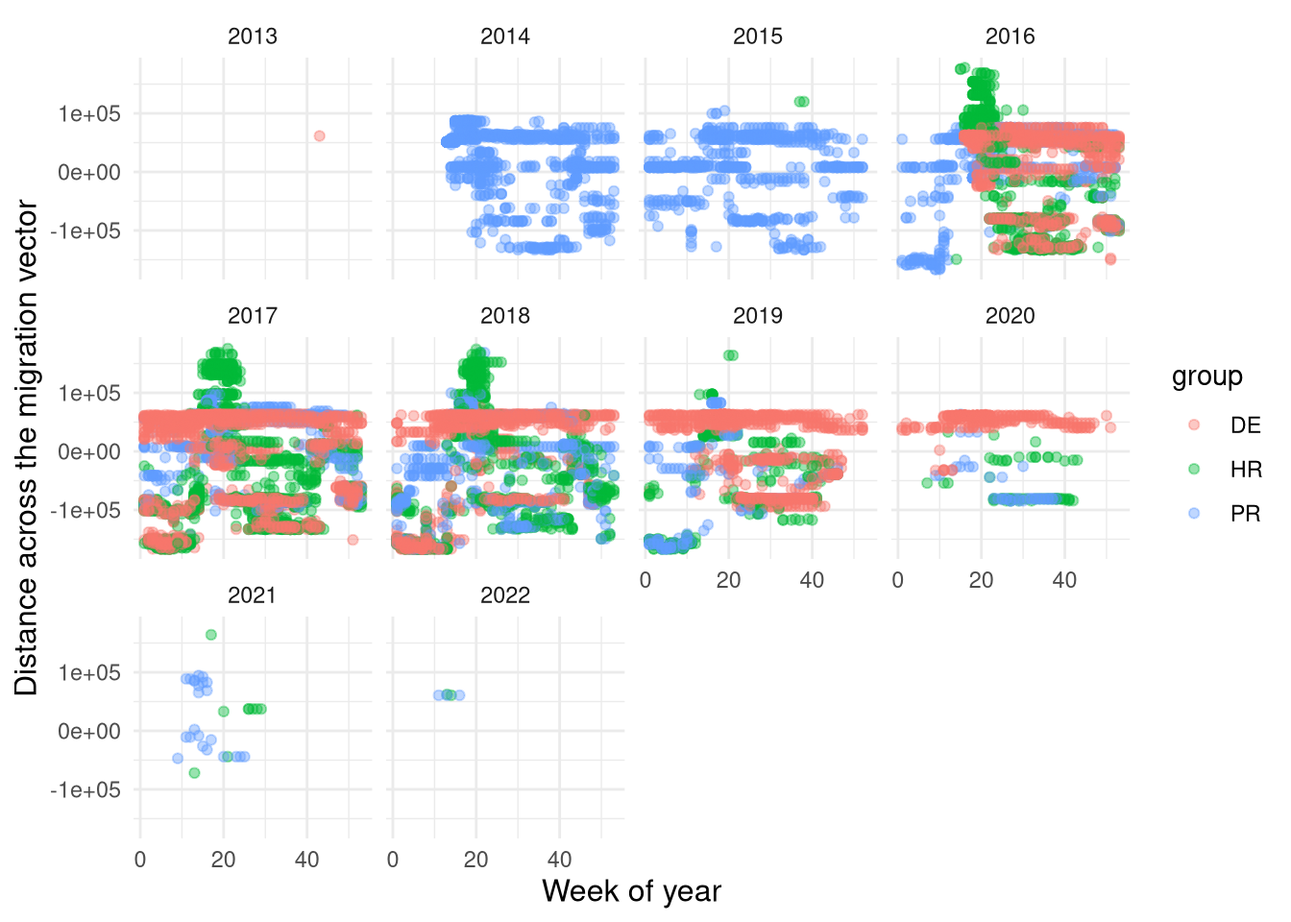
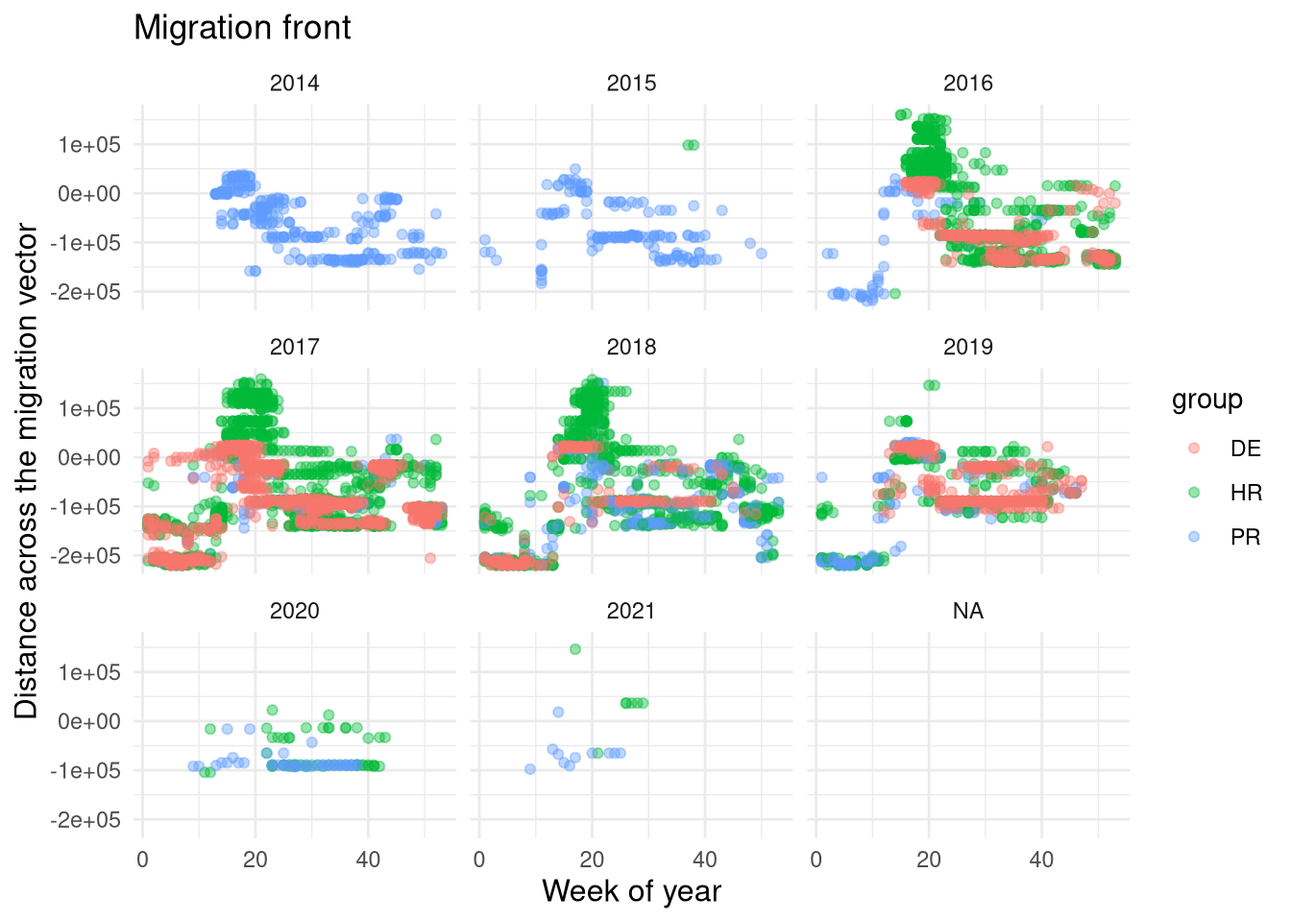
Built site for gh-pages

diff --git a/initial_gam.html b/initial_gam.html
@@ -240,7 +240,11 @@ window.Quarto = {
     <h2 id="toc-title">Table of contents</h2>
    
   <ul>
-  <li><a href="#striped-bass-morone-saxatilis" id="toc-striped-bass-morone-saxatilis" class="nav-link active" data-scroll-target="#striped-bass-morone-saxatilis"><span class="header-section-number">4.1</span> Striped bass <em>Morone saxatilis</em></a></li>
+  <li><a href="#striped-bass-morone-saxatilis" id="toc-striped-bass-morone-saxatilis" class="nav-link active" data-scroll-target="#striped-bass-morone-saxatilis"><span class="header-section-number">4.1</span> Striped bass <em>Morone saxatilis</em></a>
+  <ul class="collapse">
+  <li><a href="#initial-gam" id="toc-initial-gam" class="nav-link" data-scroll-target="#initial-gam"><span class="header-section-number">4.1.1</span> Initial GAM</a></li>
+  <li><a href="#model-evaluation" id="toc-model-evaluation" class="nav-link" data-scroll-target="#model-evaluation"><span class="header-section-number">4.1.2</span> Model evaluation</a></li>
+  </ul></li>
   <li><a href="#sand-tiger-shark-carcharias-taurus" id="toc-sand-tiger-shark-carcharias-taurus" class="nav-link" data-scroll-target="#sand-tiger-shark-carcharias-taurus"><span class="header-section-number">4.2</span> Sand tiger shark <em>Carcharias taurus</em></a></li>
   </ul>
 </nav>
@@ -279,8 +283,11 @@ window.Quarto = {
 <div class="code-copy-outer-scaffold"><div class="sourceCode cell-code" id="cb1"><pre class="sourceCode r code-with-copy"><code class="sourceCode r"><span id="cb1-1"><a href="#cb1-1" aria-hidden="true" tabindex="-1"></a><span class="fu">library</span>(arrow) <span class="co"># Data import</span></span>
 <span id="cb1-2"><a href="#cb1-2" aria-hidden="true" tabindex="-1"></a><span class="fu">library</span>(dplyr) <span class="co"># Data manipulation</span></span>
 <span id="cb1-3"><a href="#cb1-3" aria-hidden="true" tabindex="-1"></a><span class="fu">library</span>(sf) <span class="co"># Spatial</span></span>
-<span id="cb1-4"><a href="#cb1-4" aria-hidden="true" tabindex="-1"></a><span class="fu">library</span>(mgcv) <span class="co"># GAM fitting</span></span>
-<span id="cb1-5"><a href="#cb1-5" aria-hidden="true" tabindex="-1"></a><span class="fu">library</span>(ggplot2) <span class="co"># Visualization</span></span></code></pre></div><button title="Copy to Clipboard" class="code-copy-button"><i class="bi"></i></button></div>
+<span id="cb1-4"><a href="#cb1-4" aria-hidden="true" tabindex="-1"></a><span class="fu">library</span>(ggplot2) <span class="co"># Data visualization</span></span>
+<span id="cb1-5"><a href="#cb1-5" aria-hidden="true" tabindex="-1"></a><span class="fu">library</span>(mgcv) <span class="co"># GAM fitting</span></span>
+<span id="cb1-6"><a href="#cb1-6" aria-hidden="true" tabindex="-1"></a><span class="fu">library</span>(gratia) <span class="co"># GAM visualization</span></span>
+<span id="cb1-7"><a href="#cb1-7" aria-hidden="true" tabindex="-1"></a></span>
+<span id="cb1-8"><a href="#cb1-8" aria-hidden="true" tabindex="-1"></a><span class="fu">theme_set</span>(<span class="fu">theme_minimal</span>())</span></code></pre></div><button title="Copy to Clipboard" class="code-copy-button"><i class="bi"></i></button></div>
 </div>
 <section id="striped-bass-morone-saxatilis" class="level2" data-number="4.1">
 <h2 data-number="4.1" class="anchored" data-anchor-id="striped-bass-morone-saxatilis"><span class="header-section-number">4.1</span> Striped bass <em>Morone saxatilis</em></h2>
@@ -290,8 +297,7 @@ window.Quarto = {
 <span id="cb2-2"><a href="#cb2-2" aria-hidden="true" tabindex="-1"></a>  <span class="fu">geom_point</span>(<span class="fu">aes</span>(<span class="at">x =</span> wk, <span class="at">y =</span> med_lat, <span class="at">color =</span> group), <span class="at">alpha =</span> <span class="fl">0.4</span>) <span class="sc">+</span></span>
 <span id="cb2-3"><a href="#cb2-3" aria-hidden="true" tabindex="-1"></a>  <span class="fu">facet_wrap</span>(<span class="sc">~</span>year) <span class="sc">+</span></span>
 <span id="cb2-4"><a href="#cb2-4" aria-hidden="true" tabindex="-1"></a>  <span class="fu">labs</span>(<span class="at">x =</span> <span class="st">"Week of year"</span>, <span class="at">y =</span> <span class="st">"Weekly median latitude"</span>) <span class="sc">+</span></span>
-<span id="cb2-5"><a href="#cb2-5" aria-hidden="true" tabindex="-1"></a>  <span class="fu">theme_minimal</span>() <span class="sc">+</span></span>
-<span id="cb2-6"><a href="#cb2-6" aria-hidden="true" tabindex="-1"></a>  <span class="fu">theme</span>(<span class="at">axis.title =</span> <span class="fu">element_text</span>(<span class="at">size =</span> <span class="dv">12</span>))</span></code></pre></div><button title="Copy to Clipboard" class="code-copy-button"><i class="bi"></i></button></div>
+<span id="cb2-5"><a href="#cb2-5" aria-hidden="true" tabindex="-1"></a>  <span class="fu">theme</span>(<span class="at">axis.title =</span> <span class="fu">element_text</span>(<span class="at">size =</span> <span class="dv">12</span>))</span></code></pre></div><button title="Copy to Clipboard" class="code-copy-button"><i class="bi"></i></button></div>
 <div class="cell-output-display">
 <div class="quarto-figure quarto-figure-center">
 <figure class="figure">
@@ -307,7 +313,7 @@ window.Quarto = {
 <pre><code># A tibble: 1 × 2
    lon0  lat0
   &lt;dbl&gt; &lt;dbl&gt;
-1 -74.2  40.0</code></pre>
+1 -73.9  40.6</code></pre>
 </div>
 </div>
 <p>Create the <a href="https://proj.org/en/stable/index.html">PROJ</a> string…</p>
@@ -321,7 +327,7 @@ window.Quarto = {
 <span id="cb4-7"><a href="#cb4-7" aria-hidden="true" tabindex="-1"></a></span>
 <span id="cb4-8"><a href="#cb4-8" aria-hidden="true" tabindex="-1"></a>proj_string</span></code></pre></div><button title="Copy to Clipboard" class="code-copy-button"><i class="bi"></i></button></div>
 <div class="cell-output cell-output-stdout">
-<pre><code>[1] "+proj=aeqd +lon_0=-74.159839739832 +lat_0=40.0307026396128"</code></pre>
+<pre><code>[1] "+proj=aeqd +lon_0=-73.9001815881036 +lat_0=40.6098490160218"</code></pre>
 </div>
 </div>
 <p>…and project the fish locations:</p>
@@ -358,25 +364,27 @@ window.Quarto = {
 <span id="cb7-13"><a href="#cb7-13" aria-hidden="true" tabindex="-1"></a>  <span class="co"># Find the angle between true north and migration north</span></span>
 <span id="cb7-14"><a href="#cb7-14" aria-hidden="true" tabindex="-1"></a>  (\(.) <span class="fu">atan2</span>(.[<span class="dv">1</span>], .[<span class="dv">2</span>]) <span class="sc">*</span> <span class="dv">180</span> <span class="sc">/</span> pi)()</span>
 <span id="cb7-15"><a href="#cb7-15" aria-hidden="true" tabindex="-1"></a></span>
-<span id="cb7-16"><a href="#cb7-16" aria-hidden="true" tabindex="-1"></a>migration_azimuth</span></code></pre></div><button title="Copy to Clipboard" class="code-copy-button"><i class="bi"></i></button></div>
-<div class="cell-output cell-output-stdout">
-<pre><code>[1] 46.83949</code></pre>
+<span id="cb7-16"><a href="#cb7-16" aria-hidden="true" tabindex="-1"></a><span class="co"># Measure clockwise from north</span></span>
+<span id="cb7-17"><a href="#cb7-17" aria-hidden="true" tabindex="-1"></a>migration_azimuth <span class="ot">&lt;-</span> <span class="fu">ifelse</span>(</span>
+<span id="cb7-18"><a href="#cb7-18" aria-hidden="true" tabindex="-1"></a>  migration_azimuth <span class="sc">&lt;</span> <span class="dv">0</span>,</span>
+<span id="cb7-19"><a href="#cb7-19" aria-hidden="true" tabindex="-1"></a>  <span class="dv">180</span> <span class="sc">+</span> migration_azimuth,</span>
+<span id="cb7-20"><a href="#cb7-20" aria-hidden="true" tabindex="-1"></a>  migration_azimuth</span>
+<span id="cb7-21"><a href="#cb7-21" aria-hidden="true" tabindex="-1"></a>)</span></code></pre></div><button title="Copy to Clipboard" class="code-copy-button"><i class="bi"></i></button></div>
 </div>
-</div>
-<p>So, the migration vector is rotated 47<span class="math inline">\(\degree\)</span> from north. To rotate the data, we’re going to lie to the program and say that the data are currently projected around the north pole, then add the migration azimuth to it.</p>
+<p>So, the migration vector is rotated 43<span class="math inline">\(\degree\)</span> from north. To rotate the data, we’re going to lie to the program and say that the data are currently projected around the north pole, then add the migration azimuth to it.</p>
 <div class="cell">
-<div class="code-copy-outer-scaffold"><div class="sourceCode cell-code" id="cb9"><pre class="sourceCode r code-with-copy"><code class="sourceCode r"><span id="cb9-1"><a href="#cb9-1" aria-hidden="true" tabindex="-1"></a><span class="fu">st_crs</span>(sb_sf) <span class="ot">&lt;-</span> <span class="st">"+proj=aeqd +lat_0=90 +lon_0=0"</span></span>
-<span id="cb9-2"><a href="#cb9-2" aria-hidden="true" tabindex="-1"></a>proj_rotated <span class="ot">&lt;-</span> <span class="fu">paste0</span>(<span class="st">"+proj=aeqd +lat_0=90 +lon_0="</span>, migration_azimuth)</span>
-<span id="cb9-3"><a href="#cb9-3" aria-hidden="true" tabindex="-1"></a></span>
-<span id="cb9-4"><a href="#cb9-4" aria-hidden="true" tabindex="-1"></a>sb_migration_north <span class="ot">&lt;-</span> sb_sf <span class="sc">|&gt;</span></span>
-<span id="cb9-5"><a href="#cb9-5" aria-hidden="true" tabindex="-1"></a>  <span class="fu">st_transform</span>(proj_rotated) <span class="sc">|&gt;</span></span>
-<span id="cb9-6"><a href="#cb9-6" aria-hidden="true" tabindex="-1"></a>  <span class="co"># extract coordinates for modeling purposes</span></span>
-<span id="cb9-7"><a href="#cb9-7" aria-hidden="true" tabindex="-1"></a>  <span class="fu">mutate</span>(<span class="at">x =</span> <span class="fu">st_coordinates</span>(geometry)[, <span class="dv">1</span>], <span class="at">y =</span> <span class="fu">st_coordinates</span>(geometry)[, <span class="dv">2</span>])</span>
-<span id="cb9-8"><a href="#cb9-8" aria-hidden="true" tabindex="-1"></a></span>
-<span id="cb9-9"><a href="#cb9-9" aria-hidden="true" tabindex="-1"></a></span>
-<span id="cb9-10"><a href="#cb9-10" aria-hidden="true" tabindex="-1"></a><span class="fu">ggplot</span>(sb_migration_north) <span class="sc">+</span></span>
-<span id="cb9-11"><a href="#cb9-11" aria-hidden="true" tabindex="-1"></a>  <span class="fu">geom_sf</span>() <span class="sc">+</span></span>
-<span id="cb9-12"><a href="#cb9-12" aria-hidden="true" tabindex="-1"></a>  <span class="fu">coord_sf</span>(<span class="at">datum =</span> proj_rotated)</span></code></pre></div><button title="Copy to Clipboard" class="code-copy-button"><i class="bi"></i></button></div>
+<div class="code-copy-outer-scaffold"><div class="sourceCode cell-code" id="cb8"><pre class="sourceCode r code-with-copy"><code class="sourceCode r"><span id="cb8-1"><a href="#cb8-1" aria-hidden="true" tabindex="-1"></a><span class="fu">st_crs</span>(sb_sf) <span class="ot">&lt;-</span> <span class="st">"+proj=aeqd +lat_0=90 +lon_0=0"</span></span>
+<span id="cb8-2"><a href="#cb8-2" aria-hidden="true" tabindex="-1"></a>proj_rotated <span class="ot">&lt;-</span> <span class="fu">paste0</span>(<span class="st">"+proj=aeqd +lat_0=90 +lon_0="</span>, migration_azimuth)</span>
+<span id="cb8-3"><a href="#cb8-3" aria-hidden="true" tabindex="-1"></a></span>
+<span id="cb8-4"><a href="#cb8-4" aria-hidden="true" tabindex="-1"></a>sb_migration_north <span class="ot">&lt;-</span> sb_sf <span class="sc">|&gt;</span></span>
+<span id="cb8-5"><a href="#cb8-5" aria-hidden="true" tabindex="-1"></a>  <span class="fu">st_transform</span>(proj_rotated) <span class="sc">|&gt;</span></span>
+<span id="cb8-6"><a href="#cb8-6" aria-hidden="true" tabindex="-1"></a>  <span class="co"># extract coordinates for modeling purposes</span></span>
+<span id="cb8-7"><a href="#cb8-7" aria-hidden="true" tabindex="-1"></a>  <span class="fu">mutate</span>(<span class="at">x =</span> <span class="fu">st_coordinates</span>(geometry)[, <span class="dv">1</span>], <span class="at">y =</span> <span class="fu">st_coordinates</span>(geometry)[, <span class="dv">2</span>])</span>
+<span id="cb8-8"><a href="#cb8-8" aria-hidden="true" tabindex="-1"></a></span>
+<span id="cb8-9"><a href="#cb8-9" aria-hidden="true" tabindex="-1"></a></span>
+<span id="cb8-10"><a href="#cb8-10" aria-hidden="true" tabindex="-1"></a><span class="fu">ggplot</span>(sb_migration_north) <span class="sc">+</span></span>
+<span id="cb8-11"><a href="#cb8-11" aria-hidden="true" tabindex="-1"></a>  <span class="fu">geom_sf</span>() <span class="sc">+</span></span>
+<span id="cb8-12"><a href="#cb8-12" aria-hidden="true" tabindex="-1"></a>  <span class="fu">coord_sf</span>(<span class="at">datum =</span> proj_rotated)</span></code></pre></div><button title="Copy to Clipboard" class="code-copy-button"><i class="bi"></i></button></div>
 <div class="cell-output-display">
 <div>
 <figure class="figure">
@@ -387,12 +395,15 @@ window.Quarto = {
 </div>
 <p>We can now visualize migration synchrony, the variance in the migration vector over time, and migration front, variance in excursion from the migration vector over time <span class="citation" data-cites="secor2025">(<a href="references.html#ref-secor2025" role="doc-biblioref">Secor et al. 2025</a>)</span>.</p>
 <div class="cell">
-<div class="code-copy-outer-scaffold"><div class="sourceCode cell-code" id="cb10"><pre class="sourceCode r code-with-copy"><code class="sourceCode r"><span id="cb10-1"><a href="#cb10-1" aria-hidden="true" tabindex="-1"></a><span class="fu">ggplot</span>(sb_migration_north) <span class="sc">+</span></span>
-<span id="cb10-2"><a href="#cb10-2" aria-hidden="true" tabindex="-1"></a>  <span class="fu">geom_point</span>(<span class="fu">aes</span>(<span class="at">x =</span> wk, <span class="at">y =</span> x, <span class="at">color =</span> group), <span class="at">alpha =</span> <span class="fl">0.4</span>) <span class="sc">+</span></span>
-<span id="cb10-3"><a href="#cb10-3" aria-hidden="true" tabindex="-1"></a>  <span class="fu">facet_wrap</span>(<span class="sc">~</span>year) <span class="sc">+</span></span>
-<span id="cb10-4"><a href="#cb10-4" aria-hidden="true" tabindex="-1"></a>  <span class="fu">labs</span>(<span class="at">x =</span> <span class="st">"Week of year"</span>, <span class="at">y =</span> <span class="st">"Distance along the migration vector"</span>) <span class="sc">+</span></span>
-<span id="cb10-5"><a href="#cb10-5" aria-hidden="true" tabindex="-1"></a>  <span class="fu">theme_minimal</span>() <span class="sc">+</span></span>
-<span id="cb10-6"><a href="#cb10-6" aria-hidden="true" tabindex="-1"></a>  <span class="fu">theme</span>(<span class="at">axis.title =</span> <span class="fu">element_text</span>(<span class="at">size =</span> <span class="dv">12</span>))</span></code></pre></div><button title="Copy to Clipboard" class="code-copy-button"><i class="bi"></i></button></div>
+<div class="code-copy-outer-scaffold"><div class="sourceCode cell-code" id="cb9"><pre class="sourceCode r code-with-copy"><code class="sourceCode r"><span id="cb9-1"><a href="#cb9-1" aria-hidden="true" tabindex="-1"></a><span class="fu">ggplot</span>(sb_migration_north) <span class="sc">+</span></span>
+<span id="cb9-2"><a href="#cb9-2" aria-hidden="true" tabindex="-1"></a>  <span class="fu">geom_point</span>(<span class="fu">aes</span>(<span class="at">x =</span> wk, <span class="at">y =</span> x, <span class="at">color =</span> group), <span class="at">alpha =</span> <span class="fl">0.4</span>) <span class="sc">+</span></span>
+<span id="cb9-3"><a href="#cb9-3" aria-hidden="true" tabindex="-1"></a>  <span class="fu">facet_wrap</span>(<span class="sc">~</span>year) <span class="sc">+</span></span>
+<span id="cb9-4"><a href="#cb9-4" aria-hidden="true" tabindex="-1"></a>  <span class="fu">labs</span>(</span>
+<span id="cb9-5"><a href="#cb9-5" aria-hidden="true" tabindex="-1"></a>    <span class="at">title =</span> <span class="st">"Migration synchrony"</span>,</span>
+<span id="cb9-6"><a href="#cb9-6" aria-hidden="true" tabindex="-1"></a>    <span class="at">x =</span> <span class="st">"Week of year"</span>,</span>
+<span id="cb9-7"><a href="#cb9-7" aria-hidden="true" tabindex="-1"></a>    <span class="at">y =</span> <span class="st">"Distance along the migration vector"</span></span>
+<span id="cb9-8"><a href="#cb9-8" aria-hidden="true" tabindex="-1"></a>  ) <span class="sc">+</span></span>
+<span id="cb9-9"><a href="#cb9-9" aria-hidden="true" tabindex="-1"></a>  <span class="fu">theme</span>(<span class="at">axis.title =</span> <span class="fu">element_text</span>(<span class="at">size =</span> <span class="dv">12</span>))</span></code></pre></div><button title="Copy to Clipboard" class="code-copy-button"><i class="bi"></i></button></div>
 <div class="cell-output-display">
 <div>
 <figure class="figure">
@@ -401,14 +412,16 @@ window.Quarto = {
 </div>
 </div>
 </div>
-<p>I (Mike) find the migration front for striped bass to be incredibly interesting – this is where you can see differences in the migration ecology of striped bass due to spawning behaviors!</p>
 <div class="cell">
-<div class="code-copy-outer-scaffold"><div class="sourceCode cell-code" id="cb11"><pre class="sourceCode r code-with-copy"><code class="sourceCode r"><span id="cb11-1"><a href="#cb11-1" aria-hidden="true" tabindex="-1"></a><span class="fu">ggplot</span>(sb_migration_north) <span class="sc">+</span></span>
-<span id="cb11-2"><a href="#cb11-2" aria-hidden="true" tabindex="-1"></a>  <span class="fu">geom_point</span>(<span class="fu">aes</span>(<span class="at">x =</span> wk, <span class="at">y =</span> y, <span class="at">color =</span> group), <span class="at">alpha =</span> <span class="fl">0.4</span>) <span class="sc">+</span></span>
-<span id="cb11-3"><a href="#cb11-3" aria-hidden="true" tabindex="-1"></a>  <span class="fu">facet_wrap</span>(<span class="sc">~</span>year) <span class="sc">+</span></span>
-<span id="cb11-4"><a href="#cb11-4" aria-hidden="true" tabindex="-1"></a>  <span class="fu">labs</span>(<span class="at">x =</span> <span class="st">"Week of year"</span>, <span class="at">y =</span> <span class="st">"Distance across the migration vector"</span>) <span class="sc">+</span></span>
-<span id="cb11-5"><a href="#cb11-5" aria-hidden="true" tabindex="-1"></a>  <span class="fu">theme_minimal</span>() <span class="sc">+</span></span>
-<span id="cb11-6"><a href="#cb11-6" aria-hidden="true" tabindex="-1"></a>  <span class="fu">theme</span>(<span class="at">axis.title =</span> <span class="fu">element_text</span>(<span class="at">size =</span> <span class="dv">12</span>))</span></code></pre></div><button title="Copy to Clipboard" class="code-copy-button"><i class="bi"></i></button></div>
+<div class="code-copy-outer-scaffold"><div class="sourceCode cell-code" id="cb10"><pre class="sourceCode r code-with-copy"><code class="sourceCode r"><span id="cb10-1"><a href="#cb10-1" aria-hidden="true" tabindex="-1"></a><span class="fu">ggplot</span>(sb_migration_north) <span class="sc">+</span></span>
+<span id="cb10-2"><a href="#cb10-2" aria-hidden="true" tabindex="-1"></a>  <span class="fu">geom_point</span>(<span class="fu">aes</span>(<span class="at">x =</span> wk, <span class="at">y =</span> y, <span class="at">color =</span> group), <span class="at">alpha =</span> <span class="fl">0.4</span>) <span class="sc">+</span></span>
+<span id="cb10-3"><a href="#cb10-3" aria-hidden="true" tabindex="-1"></a>  <span class="fu">facet_wrap</span>(<span class="sc">~</span>year) <span class="sc">+</span></span>
+<span id="cb10-4"><a href="#cb10-4" aria-hidden="true" tabindex="-1"></a>  <span class="fu">labs</span>(</span>
+<span id="cb10-5"><a href="#cb10-5" aria-hidden="true" tabindex="-1"></a>    <span class="at">title =</span> <span class="st">"Migration front"</span>,</span>
+<span id="cb10-6"><a href="#cb10-6" aria-hidden="true" tabindex="-1"></a>    <span class="at">x =</span> <span class="st">"Week of year"</span>,</span>
+<span id="cb10-7"><a href="#cb10-7" aria-hidden="true" tabindex="-1"></a>    <span class="at">y =</span> <span class="st">"Distance across the migration vector"</span></span>
+<span id="cb10-8"><a href="#cb10-8" aria-hidden="true" tabindex="-1"></a>  ) <span class="sc">+</span></span>
+<span id="cb10-9"><a href="#cb10-9" aria-hidden="true" tabindex="-1"></a>  <span class="fu">theme</span>(<span class="at">axis.title =</span> <span class="fu">element_text</span>(<span class="at">size =</span> <span class="dv">12</span>))</span></code></pre></div><button title="Copy to Clipboard" class="code-copy-button"><i class="bi"></i></button></div>
 <div class="cell-output-display">
 <div>
 <figure class="figure">
@@ -417,6 +430,246 @@ window.Quarto = {
 </div>
 </div>
 </div>
+<section id="initial-gam" class="level3" data-number="4.1.1">
+<h3 data-number="4.1.1" class="anchored" data-anchor-id="initial-gam"><span class="header-section-number">4.1.1</span> Initial GAM</h3>
+<section id="migration-vector" class="level4" data-number="4.1.1.1">
+<h4 data-number="4.1.1.1" class="anchored" data-anchor-id="migration-vector"><span class="header-section-number">4.1.1.1</span> Migration vector</h4>
+<p>For the initial GAM, we’ll treat both year and population as a random effect. We see a general trend of low values on the migration vector through the beginning of the year, a rapid increase after the 10th week, a slight reduction in rate in week 15-20, then another rapid increase through week 25. Posiiton then levels off through week 40, where it rapidly drops.</p>
+<div class="cell">
+<div class="code-copy-outer-scaffold"><div class="sourceCode cell-code" id="cb11"><pre class="sourceCode r code-with-copy"><code class="sourceCode r"><span id="cb11-1"><a href="#cb11-1" aria-hidden="true" tabindex="-1"></a>model_data <span class="ot">&lt;-</span> sb_migration_north <span class="sc">|&gt;</span></span>
+<span id="cb11-2"><a href="#cb11-2" aria-hidden="true" tabindex="-1"></a>  <span class="fu">mutate</span>(<span class="at">group =</span> <span class="fu">factor</span>(group), <span class="at">yr_f =</span> <span class="fu">factor</span>(year))</span>
+<span id="cb11-3"><a href="#cb11-3" aria-hidden="true" tabindex="-1"></a></span>
+<span id="cb11-4"><a href="#cb11-4" aria-hidden="true" tabindex="-1"></a>m1 <span class="ot">&lt;-</span> model_data <span class="sc">|&gt;</span></span>
+<span id="cb11-5"><a href="#cb11-5" aria-hidden="true" tabindex="-1"></a>  <span class="fu">gam</span>(</span>
+<span id="cb11-6"><a href="#cb11-6" aria-hidden="true" tabindex="-1"></a>    x <span class="sc">~</span> <span class="fu">s</span>(wk, <span class="at">k =</span> <span class="dv">27</span>, <span class="at">bs =</span> <span class="st">"cc"</span>) <span class="sc">+</span> <span class="fu">s</span>(yr_f, <span class="at">bs =</span> <span class="st">"re"</span>) <span class="sc">+</span> <span class="fu">s</span>(group, <span class="at">bs =</span> <span class="st">"re"</span>),</span>
+<span id="cb11-7"><a href="#cb11-7" aria-hidden="true" tabindex="-1"></a>    <span class="at">knots =</span> <span class="fu">list</span>(<span class="at">wk =</span> <span class="fu">c</span>(<span class="dv">1</span>, <span class="dv">53</span>)),</span>
+<span id="cb11-8"><a href="#cb11-8" aria-hidden="true" tabindex="-1"></a>    <span class="at">data =</span> _,</span>
+<span id="cb11-9"><a href="#cb11-9" aria-hidden="true" tabindex="-1"></a>    <span class="at">method =</span> <span class="st">"REML"</span></span>
+<span id="cb11-10"><a href="#cb11-10" aria-hidden="true" tabindex="-1"></a>  )</span>
+<span id="cb11-11"><a href="#cb11-11" aria-hidden="true" tabindex="-1"></a></span>
+<span id="cb11-12"><a href="#cb11-12" aria-hidden="true" tabindex="-1"></a><span class="fu">summary</span>(m1)</span></code></pre></div><button title="Copy to Clipboard" class="code-copy-button"><i class="bi"></i></button></div>
+<div class="cell-output cell-output-stdout">
+<pre><code>
+Family: gaussian 
+Link function: identity 
+
+Formula:
+x ~ s(wk, k = 27, bs = "cc") + s(yr_f, bs = "re") + s(group, 
+    bs = "re")
+
+Parametric coefficients:
+            Estimate Std. Error t value Pr(&gt;|t|)
+(Intercept)    16369      25041   0.654    0.513
+
+Approximate significance of smooth terms:
+            edf Ref.df       F p-value    
+s(wk)    20.768     25 15255.0  &lt;2e-16 ***
+s(yr_f)   6.178      7   158.5  &lt;2e-16 ***
+s(group)  1.993      2  1481.9  &lt;2e-16 ***
+---
+Signif. codes:  0 '***' 0.001 '**' 0.01 '*' 0.05 '.' 0.1 ' ' 1
+
+R-sq.(adj) =  0.877   Deviance explained = 87.7%
+-REML =  95557  Scale est. = 8.5288e+09  n = 7431</code></pre>
+</div>
+<div class="code-copy-outer-scaffold"><div class="sourceCode cell-code" id="cb13"><pre class="sourceCode r code-with-copy"><code class="sourceCode r"><span id="cb13-1"><a href="#cb13-1" aria-hidden="true" tabindex="-1"></a><span class="fu">draw</span>(m1, <span class="at">select =</span> <span class="st">"s(wk)"</span>, <span class="at">residuals =</span> <span class="cn">TRUE</span>)</span></code></pre></div><button title="Copy to Clipboard" class="code-copy-button"><i class="bi"></i></button></div>
+<div class="cell-output-display">
+<div>
+<figure class="figure">
+<p><img src="initial_gam_files/figure-html/gam-all-re-1.png" class="img-fluid figure-img" width="672"></p>
+</figure>
+</div>
+</div>
+</div>
+<p>Next we’ll pull the populations apart and treat them as “by-variable smooths” (i.e.&nbsp;one form of a GAM interaction) in the model. We see that the leveling-off of movement up the migration vector in weeks 15-20 is likely due to spawning. The Potomac River has a leveling-off earlier and lower on the vector, followed by Delaware a little higher and later, then Hudson higher and greater still. <strong>These <em>destination habitats</em> are one of the migration metrics we wish to quantify.</strong></p>
+<div class="cell">
+<div class="code-copy-outer-scaffold"><div class="sourceCode cell-code" id="cb14"><pre class="sourceCode r code-with-copy"><code class="sourceCode r"><span id="cb14-1"><a href="#cb14-1" aria-hidden="true" tabindex="-1"></a>m2 <span class="ot">&lt;-</span> model_data <span class="sc">|&gt;</span></span>
+<span id="cb14-2"><a href="#cb14-2" aria-hidden="true" tabindex="-1"></a>  <span class="fu">gam</span>(</span>
+<span id="cb14-3"><a href="#cb14-3" aria-hidden="true" tabindex="-1"></a>    x <span class="sc">~</span> group <span class="sc">+</span> <span class="fu">s</span>(wk, <span class="at">by =</span> group, <span class="at">k =</span> <span class="dv">27</span>) <span class="sc">+</span> <span class="fu">s</span>(yr_f, <span class="at">bs =</span> <span class="st">"re"</span>),</span>
+<span id="cb14-4"><a href="#cb14-4" aria-hidden="true" tabindex="-1"></a>    <span class="at">knots =</span> <span class="fu">list</span>(<span class="at">wk =</span> <span class="fu">c</span>(<span class="dv">1</span>, <span class="dv">53</span>)),</span>
+<span id="cb14-5"><a href="#cb14-5" aria-hidden="true" tabindex="-1"></a>    <span class="at">data =</span> _,</span>
+<span id="cb14-6"><a href="#cb14-6" aria-hidden="true" tabindex="-1"></a>    <span class="at">method =</span> <span class="st">"REML"</span></span>
+<span id="cb14-7"><a href="#cb14-7" aria-hidden="true" tabindex="-1"></a>  )</span>
+<span id="cb14-8"><a href="#cb14-8" aria-hidden="true" tabindex="-1"></a></span>
+<span id="cb14-9"><a href="#cb14-9" aria-hidden="true" tabindex="-1"></a></span>
+<span id="cb14-10"><a href="#cb14-10" aria-hidden="true" tabindex="-1"></a><span class="fu">summary</span>(m2)</span></code></pre></div><button title="Copy to Clipboard" class="code-copy-button"><i class="bi"></i></button></div>
+<div class="cell-output cell-output-stdout">
+<pre><code>
+Family: gaussian 
+Link function: identity 
+
+Formula:
+x ~ group + s(wk, by = group, k = 27) + s(yr_f, bs = "re")
+
+Parametric coefficients:
+            Estimate Std. Error t value Pr(&gt;|t|)    
+(Intercept)    68484       6080   11.26   &lt;2e-16 ***
+groupPR       -84159       3059  -27.51   &lt;2e-16 ***
+groupDE       -60477       2189  -27.63   &lt;2e-16 ***
+---
+Signif. codes:  0 '***' 0.001 '**' 0.01 '*' 0.05 '.' 0.1 ' ' 1
+
+Approximate significance of smooth terms:
+                 edf Ref.df       F p-value    
+s(wk):groupHR 23.684  25.47 1407.67  &lt;2e-16 ***
+s(wk):groupPR 19.793  22.92  704.63  &lt;2e-16 ***
+s(wk):groupDE 20.631  23.59  850.01  &lt;2e-16 ***
+s(yr_f)        5.962   7.00   10.32  &lt;2e-16 ***
+---
+Signif. codes:  0 '***' 0.001 '**' 0.01 '*' 0.05 '.' 0.1 ' ' 1
+
+R-sq.(adj) =  0.913   Deviance explained = 91.3%
+-REML =  94312  Scale est. = 6.0492e+09  n = 7431</code></pre>
+</div>
+<div class="code-copy-outer-scaffold"><div class="sourceCode cell-code" id="cb16"><pre class="sourceCode r code-with-copy"><code class="sourceCode r"><span id="cb16-1"><a href="#cb16-1" aria-hidden="true" tabindex="-1"></a><span class="fu">draw</span>(m2, <span class="at">select =</span> <span class="fu">c</span>(<span class="st">"s(wk)"</span>), <span class="at">partial_match =</span> <span class="cn">TRUE</span>, <span class="at">residuals =</span> <span class="cn">TRUE</span>)</span></code></pre></div><button title="Copy to Clipboard" class="code-copy-button"><i class="bi"></i></button></div>
+<div class="cell-output-display">
+<div>
+<figure class="figure">
+<p><img src="initial_gam_files/figure-html/gam-re-yr-1.png" class="img-fluid figure-img" width="672"></p>
+</figure>
+</div>
+</div>
+</div>
+</section>
+<section id="migration-front" class="level4" data-number="4.1.1.2">
+<h4 data-number="4.1.1.2" class="anchored" data-anchor-id="migration-front"><span class="header-section-number">4.1.1.2</span> Migration front</h4>
+<p>We’ll do the same with the migration front (the deviation from the migration vector).</p>
+<div class="cell">
+<div class="code-copy-outer-scaffold"><div class="sourceCode cell-code" id="cb17"><pre class="sourceCode r code-with-copy"><code class="sourceCode r"><span id="cb17-1"><a href="#cb17-1" aria-hidden="true" tabindex="-1"></a>m1_mf <span class="ot">&lt;-</span> model_data <span class="sc">|&gt;</span></span>
+<span id="cb17-2"><a href="#cb17-2" aria-hidden="true" tabindex="-1"></a>  <span class="fu">gam</span>(</span>
+<span id="cb17-3"><a href="#cb17-3" aria-hidden="true" tabindex="-1"></a>    y <span class="sc">~</span> <span class="fu">s</span>(wk, <span class="at">k =</span> <span class="dv">53</span>, <span class="at">bs =</span> <span class="st">"cc"</span>) <span class="sc">+</span></span>
+<span id="cb17-4"><a href="#cb17-4" aria-hidden="true" tabindex="-1"></a>      <span class="fu">s</span>(yr_f, <span class="at">bs =</span> <span class="st">"re"</span>) <span class="sc">+</span></span>
+<span id="cb17-5"><a href="#cb17-5" aria-hidden="true" tabindex="-1"></a>      <span class="fu">s</span>(group, <span class="at">bs =</span> <span class="st">"re"</span>),</span>
+<span id="cb17-6"><a href="#cb17-6" aria-hidden="true" tabindex="-1"></a>    <span class="at">knots =</span> <span class="fu">list</span>(<span class="at">wk =</span> <span class="fu">c</span>(<span class="dv">1</span>, <span class="dv">53</span>)),</span>
+<span id="cb17-7"><a href="#cb17-7" aria-hidden="true" tabindex="-1"></a>    <span class="at">data =</span> _,</span>
+<span id="cb17-8"><a href="#cb17-8" aria-hidden="true" tabindex="-1"></a>    <span class="at">method =</span> <span class="st">"REML"</span></span>
+<span id="cb17-9"><a href="#cb17-9" aria-hidden="true" tabindex="-1"></a>  )</span>
+<span id="cb17-10"><a href="#cb17-10" aria-hidden="true" tabindex="-1"></a></span>
+<span id="cb17-11"><a href="#cb17-11" aria-hidden="true" tabindex="-1"></a><span class="fu">summary</span>(m1_mf)</span></code></pre></div><button title="Copy to Clipboard" class="code-copy-button"><i class="bi"></i></button></div>
+<div class="cell-output cell-output-stdout">
+<pre><code>
+Family: gaussian 
+Link function: identity 
+
+Formula:
+y ~ s(wk, k = 53, bs = "cc") + s(yr_f, bs = "re") + s(group, 
+    bs = "re")
+
+Parametric coefficients:
+            Estimate Std. Error t value Pr(&gt;|t|)    
+(Intercept)   -72886       6320  -11.53   &lt;2e-16 ***
+---
+Signif. codes:  0 '***' 0.001 '**' 0.01 '*' 0.05 '.' 0.1 ' ' 1
+
+Approximate significance of smooth terms:
+            edf Ref.df       F p-value    
+s(wk)    33.092     51 453.848 &lt; 2e-16 ***
+s(yr_f)   4.196      7   8.518 0.00756 ** 
+s(group)  1.976      2 172.280 &lt; 2e-16 ***
+---
+Signif. codes:  0 '***' 0.001 '**' 0.01 '*' 0.05 '.' 0.1 ' ' 1
+
+R-sq.(adj) =  0.722   Deviance explained = 72.3%
+-REML =  90614  Scale est. = 2.2479e+09  n = 7431</code></pre>
+</div>
+<div class="code-copy-outer-scaffold"><div class="sourceCode cell-code" id="cb19"><pre class="sourceCode r code-with-copy"><code class="sourceCode r"><span id="cb19-1"><a href="#cb19-1" aria-hidden="true" tabindex="-1"></a><span class="fu">draw</span>(m1_mf, <span class="at">select =</span> <span class="st">"s(wk)"</span>, <span class="at">residuals =</span> <span class="cn">TRUE</span>)</span></code></pre></div><button title="Copy to Clipboard" class="code-copy-button"><i class="bi"></i></button></div>
+<div class="cell-output-display">
+<div>
+<figure class="figure">
+<p><img src="initial_gam_files/figure-html/gam-front-all-re-1.png" class="img-fluid figure-img" width="672"></p>
+</figure>
+</div>
+</div>
+</div>
+<div class="cell">
+<div class="code-copy-outer-scaffold"><div class="sourceCode cell-code" id="cb20"><pre class="sourceCode r code-with-copy"><code class="sourceCode r"><span id="cb20-1"><a href="#cb20-1" aria-hidden="true" tabindex="-1"></a>m2_mf <span class="ot">&lt;-</span> model_data <span class="sc">|&gt;</span></span>
+<span id="cb20-2"><a href="#cb20-2" aria-hidden="true" tabindex="-1"></a>  <span class="fu">gam</span>(</span>
+<span id="cb20-3"><a href="#cb20-3" aria-hidden="true" tabindex="-1"></a>    y <span class="sc">~</span> group <span class="sc">+</span></span>
+<span id="cb20-4"><a href="#cb20-4" aria-hidden="true" tabindex="-1"></a>      <span class="fu">s</span>(wk, <span class="at">by =</span> group, <span class="at">k =</span> <span class="dv">53</span>, <span class="at">bs =</span> <span class="st">"cc"</span>) <span class="sc">+</span></span>
+<span id="cb20-5"><a href="#cb20-5" aria-hidden="true" tabindex="-1"></a>      <span class="fu">s</span>(yr_f, <span class="at">bs =</span> <span class="st">"re"</span>),</span>
+<span id="cb20-6"><a href="#cb20-6" aria-hidden="true" tabindex="-1"></a>    <span class="at">knots =</span> <span class="fu">list</span>(<span class="at">wk =</span> <span class="fu">c</span>(<span class="dv">1</span>, <span class="dv">53</span>)),</span>
+<span id="cb20-7"><a href="#cb20-7" aria-hidden="true" tabindex="-1"></a>    <span class="at">data =</span> _,</span>
+<span id="cb20-8"><a href="#cb20-8" aria-hidden="true" tabindex="-1"></a>    <span class="at">method =</span> <span class="st">"REML"</span></span>
+<span id="cb20-9"><a href="#cb20-9" aria-hidden="true" tabindex="-1"></a>  )</span>
+<span id="cb20-10"><a href="#cb20-10" aria-hidden="true" tabindex="-1"></a></span>
+<span id="cb20-11"><a href="#cb20-11" aria-hidden="true" tabindex="-1"></a><span class="fu">summary</span>(m2_mf)</span></code></pre></div><button title="Copy to Clipboard" class="code-copy-button"><i class="bi"></i></button></div>
+<div class="cell-output cell-output-stdout">
+<pre><code>
+Family: gaussian 
+Link function: identity 
+
+Formula:
+y ~ group + s(wk, by = group, k = 53, bs = "cc") + s(yr_f, bs = "re")
+
+Parametric coefficients:
+            Estimate Std. Error t value Pr(&gt;|t|)    
+(Intercept)   -58124       2554  -22.76   &lt;2e-16 ***
+groupPR       -24872       1626  -15.29   &lt;2e-16 ***
+groupDE       -18399       1176  -15.64   &lt;2e-16 ***
+---
+Signif. codes:  0 '***' 0.001 '**' 0.01 '*' 0.05 '.' 0.1 ' ' 1
+
+Approximate significance of smooth terms:
+                 edf Ref.df      F p-value    
+s(wk):groupHR 34.047     51 535.43  &lt;2e-16 ***
+s(wk):groupPR 19.893     51  49.60  &lt;2e-16 ***
+s(wk):groupDE 22.237     51 100.04  &lt;2e-16 ***
+s(yr_f)        5.518      7  13.63  &lt;2e-16 ***
+---
+Signif. codes:  0 '***' 0.001 '**' 0.01 '*' 0.05 '.' 0.1 ' ' 1
+
+R-sq.(adj) =  0.783   Deviance explained = 78.6%
+-REML =  89740  Scale est. = 1.75e+09  n = 7431</code></pre>
+</div>
+<div class="code-copy-outer-scaffold"><div class="sourceCode cell-code" id="cb22"><pre class="sourceCode r code-with-copy"><code class="sourceCode r"><span id="cb22-1"><a href="#cb22-1" aria-hidden="true" tabindex="-1"></a><span class="fu">draw</span>(m2_mf, <span class="at">select =</span> <span class="st">"s(wk)"</span>, <span class="at">partial_match =</span> <span class="cn">TRUE</span>, <span class="at">residuals =</span> <span class="cn">TRUE</span>)</span></code></pre></div><button title="Copy to Clipboard" class="code-copy-button"><i class="bi"></i></button></div>
+<div class="cell-output-display">
+<div>
+<figure class="figure">
+<p><img src="initial_gam_files/figure-html/gam-front-re-yr-1.png" class="img-fluid figure-img" width="672"></p>
+</figure>
+</div>
+</div>
+</div>
+</section>
+</section>
+<section id="model-evaluation" class="level3" data-number="4.1.2">
+<h3 data-number="4.1.2" class="anchored" data-anchor-id="model-evaluation"><span class="header-section-number">4.1.2</span> Model evaluation</h3>
+<p>It should be noted, however, that the initial models are not performing well on the edges of the domain of the migration vector and migration front. This suggests that we need to refine the model to further to characterize these areas.</p>
+<div class="cell">
+<div class="code-copy-outer-scaffold"><div class="sourceCode cell-code" id="cb23"><pre class="sourceCode r code-with-copy"><code class="sourceCode r"><span id="cb23-1"><a href="#cb23-1" aria-hidden="true" tabindex="-1"></a><span class="fu">appraise</span>(m1)</span></code></pre></div><button title="Copy to Clipboard" class="code-copy-button"><i class="bi"></i></button></div>
+<div class="cell-output-display">
+<div>
+<figure class="figure">
+<p><img src="initial_gam_files/figure-html/appraise-1.png" class="img-fluid figure-img" width="672"></p>
+</figure>
+</div>
+</div>
+<div class="code-copy-outer-scaffold"><div class="sourceCode cell-code" id="cb24"><pre class="sourceCode r code-with-copy"><code class="sourceCode r"><span id="cb24-1"><a href="#cb24-1" aria-hidden="true" tabindex="-1"></a><span class="fu">appraise</span>(m2)</span></code></pre></div><button title="Copy to Clipboard" class="code-copy-button"><i class="bi"></i></button></div>
+<div class="cell-output-display">
+<div>
+<figure class="figure">
+<p><img src="initial_gam_files/figure-html/appraise-2.png" class="img-fluid figure-img" width="672"></p>
+</figure>
+</div>
+</div>
+<div class="code-copy-outer-scaffold"><div class="sourceCode cell-code" id="cb25"><pre class="sourceCode r code-with-copy"><code class="sourceCode r"><span id="cb25-1"><a href="#cb25-1" aria-hidden="true" tabindex="-1"></a><span class="fu">appraise</span>(m1_mf)</span></code></pre></div><button title="Copy to Clipboard" class="code-copy-button"><i class="bi"></i></button></div>
+<div class="cell-output-display">
+<div>
+<figure class="figure">
+<p><img src="initial_gam_files/figure-html/appraise-3.png" class="img-fluid figure-img" width="672"></p>
+</figure>
+</div>
+</div>
+<div class="code-copy-outer-scaffold"><div class="sourceCode cell-code" id="cb26"><pre class="sourceCode r code-with-copy"><code class="sourceCode r"><span id="cb26-1"><a href="#cb26-1" aria-hidden="true" tabindex="-1"></a><span class="fu">appraise</span>(m2_mf)</span></code></pre></div><button title="Copy to Clipboard" class="code-copy-button"><i class="bi"></i></button></div>
+<div class="cell-output-display">
+<div>
+<figure class="figure">
+<p><img src="initial_gam_files/figure-html/appraise-4.png" class="img-fluid figure-img" width="672"></p>
+</figure>
+</div>
+</div>
+</div>
+</section>
 </section>
 <section id="sand-tiger-shark-carcharias-taurus" class="level2" data-number="4.2">
 <h2 data-number="4.2" class="anchored" data-anchor-id="sand-tiger-shark-carcharias-taurus"><span class="header-section-number">4.2</span> Sand tiger shark <em>Carcharias taurus</em></h2>
